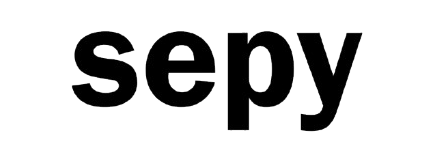
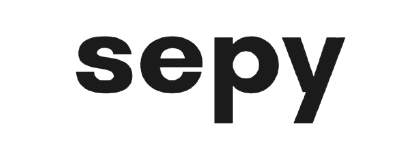
latest update

Changed region(s): [[0.1548, 0.1867, 0.8357, 0.8533]]

diff --git a/server/src/config/env.ts b/server/src/config/env.ts
@@ -7,12 +7,7 @@ const envSchema = z
       .enum(["development", "production", "test"])
       .default("development"),
 
-    PORT: z.coerce
-      .number()
-      .int()
-      .min(1)
-      .max(65535)
-      .default(5000),
+    PORT: z.coerce.number().int().min(1).max(65535).default(5000),
 
     MONGODB_URI: z
       .string()
@@ -20,8 +15,7 @@ const envSchema = z
       .min(1, "MONGODB_URI is required")
       .refine(
         (value) =>
-          value.startsWith("mongodb://") ||
-          value.startsWith("mongodb+srv://"),
+          value.startsWith("mongodb://") || value.startsWith("mongodb+srv://"),
         "MONGODB_URI must be a valid MongoDB connection URI",
       ),
 
@@ -39,9 +33,7 @@ const envSchema = z
       .string()
       .min(12, "ADMIN_PASSWORD must be at least 12 characters"),
 
-    CLIENT_URL: z
-      .string()
-      .url("CLIENT_URL must be a valid URL"),
+    CLIENT_URL: z.string().url("CLIENT_URL must be a valid URL"),
   })
   .superRefine((data, ctx) => {
     if (data.NODE_ENV !== "production") {
@@ -56,9 +48,7 @@ const envSchema = z
     ];
 
     if (
-      placeholderSecrets.includes(
-        data.JWT_ACCESS_SECRET.trim().toLowerCase(),
-      )
+      placeholderSecrets.includes(data.JWT_ACCESS_SECRET.trim().toLowerCase())
     ) {
       ctx.addIssue({
         code: "custom",
@@ -78,11 +68,7 @@ const envSchema = z
       });
     }
 
-    if (
-      ["localhost", "127.0.0.1", "::1"].includes(
-        clientUrl.hostname,
-      )
-    ) {
+    if (["localhost", "127.0.0.1", "::1"].includes(clientUrl.hostname)) {
       ctx.addIssue({
         code: "custom",
         path: ["CLIENT_URL"],
@@ -101,3 +87,5 @@ if (!parsedEnv.success) {
 }
 
 export const env = parsedEnv.data;
+
+

diff --git a/server/dist/schemas/product.schema.js b/server/dist/schemas/product.schema.js
@@ -29,7 +29,7 @@ const variantInputSchema = z
         .optional(),
     price: z.number().finite().positive(),
     compareAtPrice: z.number().finite().positive().optional(),
-    stock: z.number().int().min(0).default(0),
+    stock: z.number().int().min(0).max(Number.MAX_SAFE_INTEGER).default(0),
 })
     .strict()
     .refine((data) => data.compareAtPrice === undefined || data.compareAtPrice > data.price, {
@@ -85,7 +85,12 @@ export const createProductSchema = z
     .strict();
 export const productListQuerySchema = z
     .object({
-    page: z.coerce.number().int().min(1).default(1),
+    page: z.coerce
+        .number()
+        .int()
+        .min(1)
+        .max(Math.floor(Number.MAX_SAFE_INTEGER / 100))
+        .default(1),
     limit: z.coerce.number().int().min(1).max(100).default(12),
     category: z
         .string()

diff --git a/server/src/schemas/product.schema.ts b/server/src/schemas/product.schema.ts
@@ -39,7 +39,7 @@ const variantInputSchema = z
 
     compareAtPrice: z.number().finite().positive().optional(),
 
-    stock: z.number().int().min(0).default(0),
+    stock: z.number().int().min(0).max(Number.MAX_SAFE_INTEGER).default(0),
   })
   .strict()
   .refine(
@@ -127,7 +127,12 @@ export type CreateProductInput = z.infer<typeof createProductSchema>["body"];
 
 export const productListQuerySchema = z
   .object({
-    page: z.coerce.number().int().min(1).default(1),
+    page: z.coerce
+      .number()
+      .int()
+      .min(1)
+      .max(Math.floor(Number.MAX_SAFE_INTEGER / 100))
+      .default(1),
 
     limit: z.coerce.number().int().min(1).max(100).default(12),
 

diff --git a/client/src/components/site/navbar/HeaderActions.tsx b/client/src/components/site/navbar/HeaderActions.tsx
@@ -18,18 +18,6 @@ export default function HeaderActions() {
           strokeWidth={1.35}
         />
       </Link>
-      
-      <Link
-        href="/wishlist"
-        aria-label="Wishlist"
-        className="hidden sm:flex h-10 w-10 items-center justify-center transition-opacity duration-300 hover:opacity-60"
-      >
-        <PiBookmarkSimpleLight
-          aria-hidden="true"
-          className="h-4.75 w-4.75"
-          strokeWidth={1.35}
-        />
-      </Link>
 
       <Link
         href="/cart"

diff --git a/client/src/components/site/Footer.tsx b/client/src/components/site/Footer.tsx
@@ -46,7 +46,7 @@ export default function Footer() {
               className="inline-block focus-visible:outline-none"
             >
               <Image
-                src="/images/brand/sepy-wordmark.png"
+                src="/images/brand/sepy-symbol.png"
                 alt="SEPY"
                 width={240}
                 height={60}

diff --git a/client/src/components/site/navbar/Header.tsx b/client/src/components/site/navbar/Header.tsx
@@ -53,7 +53,7 @@ export default function Header() {
             className="absolute left-1/2 z-20 -translate-x-1/2"
           >
             <Image
-              src="/images/brand/sepy-wordmark.png"
+              src="/images/brand/sepy-symbol.png"
               alt="SEPY"
               width={240}
               height={60}

diff --git a/client/src/components/site/navbar/navigation-data.ts b/client/src/components/site/navbar/navigation-data.ts
@@ -64,10 +64,6 @@ export const primaryNavigation: NavigationItem[] = [
 
 export const secondaryNavigation: NavigationItem[] = [
   {
-    label: "Wishlist",
-    href: "/wishlist",
-  },
-  {
     label: "Account",
     href: "/account",
   },

diff --git a/client/src/lib/api-types.ts b/client/src/lib/api-types.ts
@@ -3,7 +3,7 @@ export type Category = {
   _id: string;
   name: string;
   slug: string;
-  department: "women" | "men";
+  department: "women" | "men" | "unisex";
 };
 
 export type ProductImage = {
